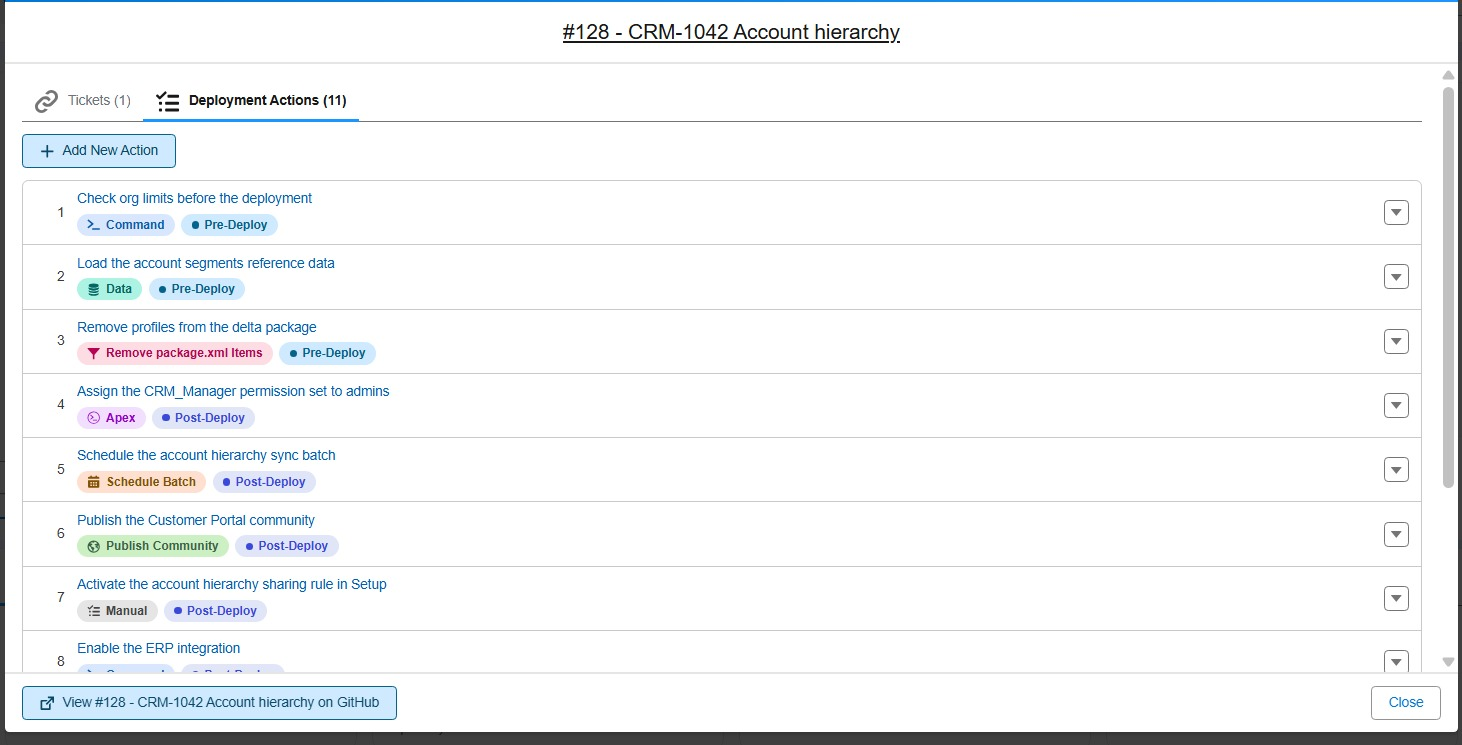
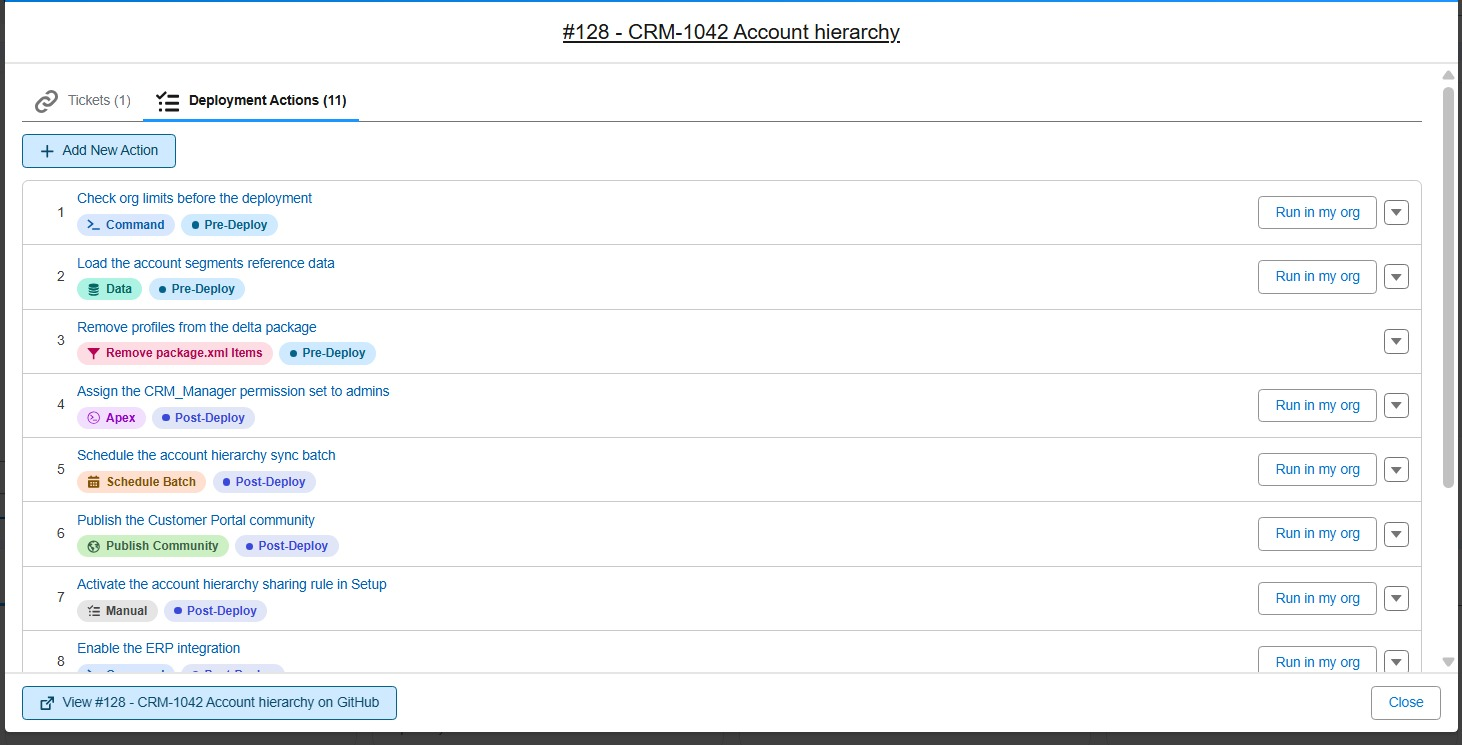
docs(deployment-actions): Run in my org in the VS Code guide and its screenshots

diff --git a/docs/vscode-extension-devops-pipeline.md b/docs/vscode-extension-devops-pipeline.md
@@ -49,7 +49,7 @@ The cards follow the order of the work:
 Some changes need a step that metadata alone cannot do: load reference data, run an Apex script, assign a permission set. Open your Pull Request with the **My Pull Request** card, then its **Deployment Actions** tab.
 
 1. Click **(1)** to add an action, pick its type and when it runs (before or after the deployment).
-2. The list **(2)** shows the actions of the Pull Request, numbered in the order they run. Click a label to see or edit it, or open the menu at the end of its row to delete it.
+2. The list **(2)** shows the actions of the Pull Request, numbered in the order they run. Click a label to see or edit it, **Run in my org** to try the action in your developer org before the merge (**Rerun** after a failed try), or open the menu at the end of its row to delete it. See [Try your actions in your own org](salesforce-devops-work-on-user-story-deployment-actions.md#try-your-actions-in-your-own-org).
 3. **(3)** opens the Pull Request on your git provider.
 
 The actions run automatically when the Pull Request is deployed. See [Deployment actions](salesforce-devops-work-on-user-story-deployment-actions.md) for every action type.
